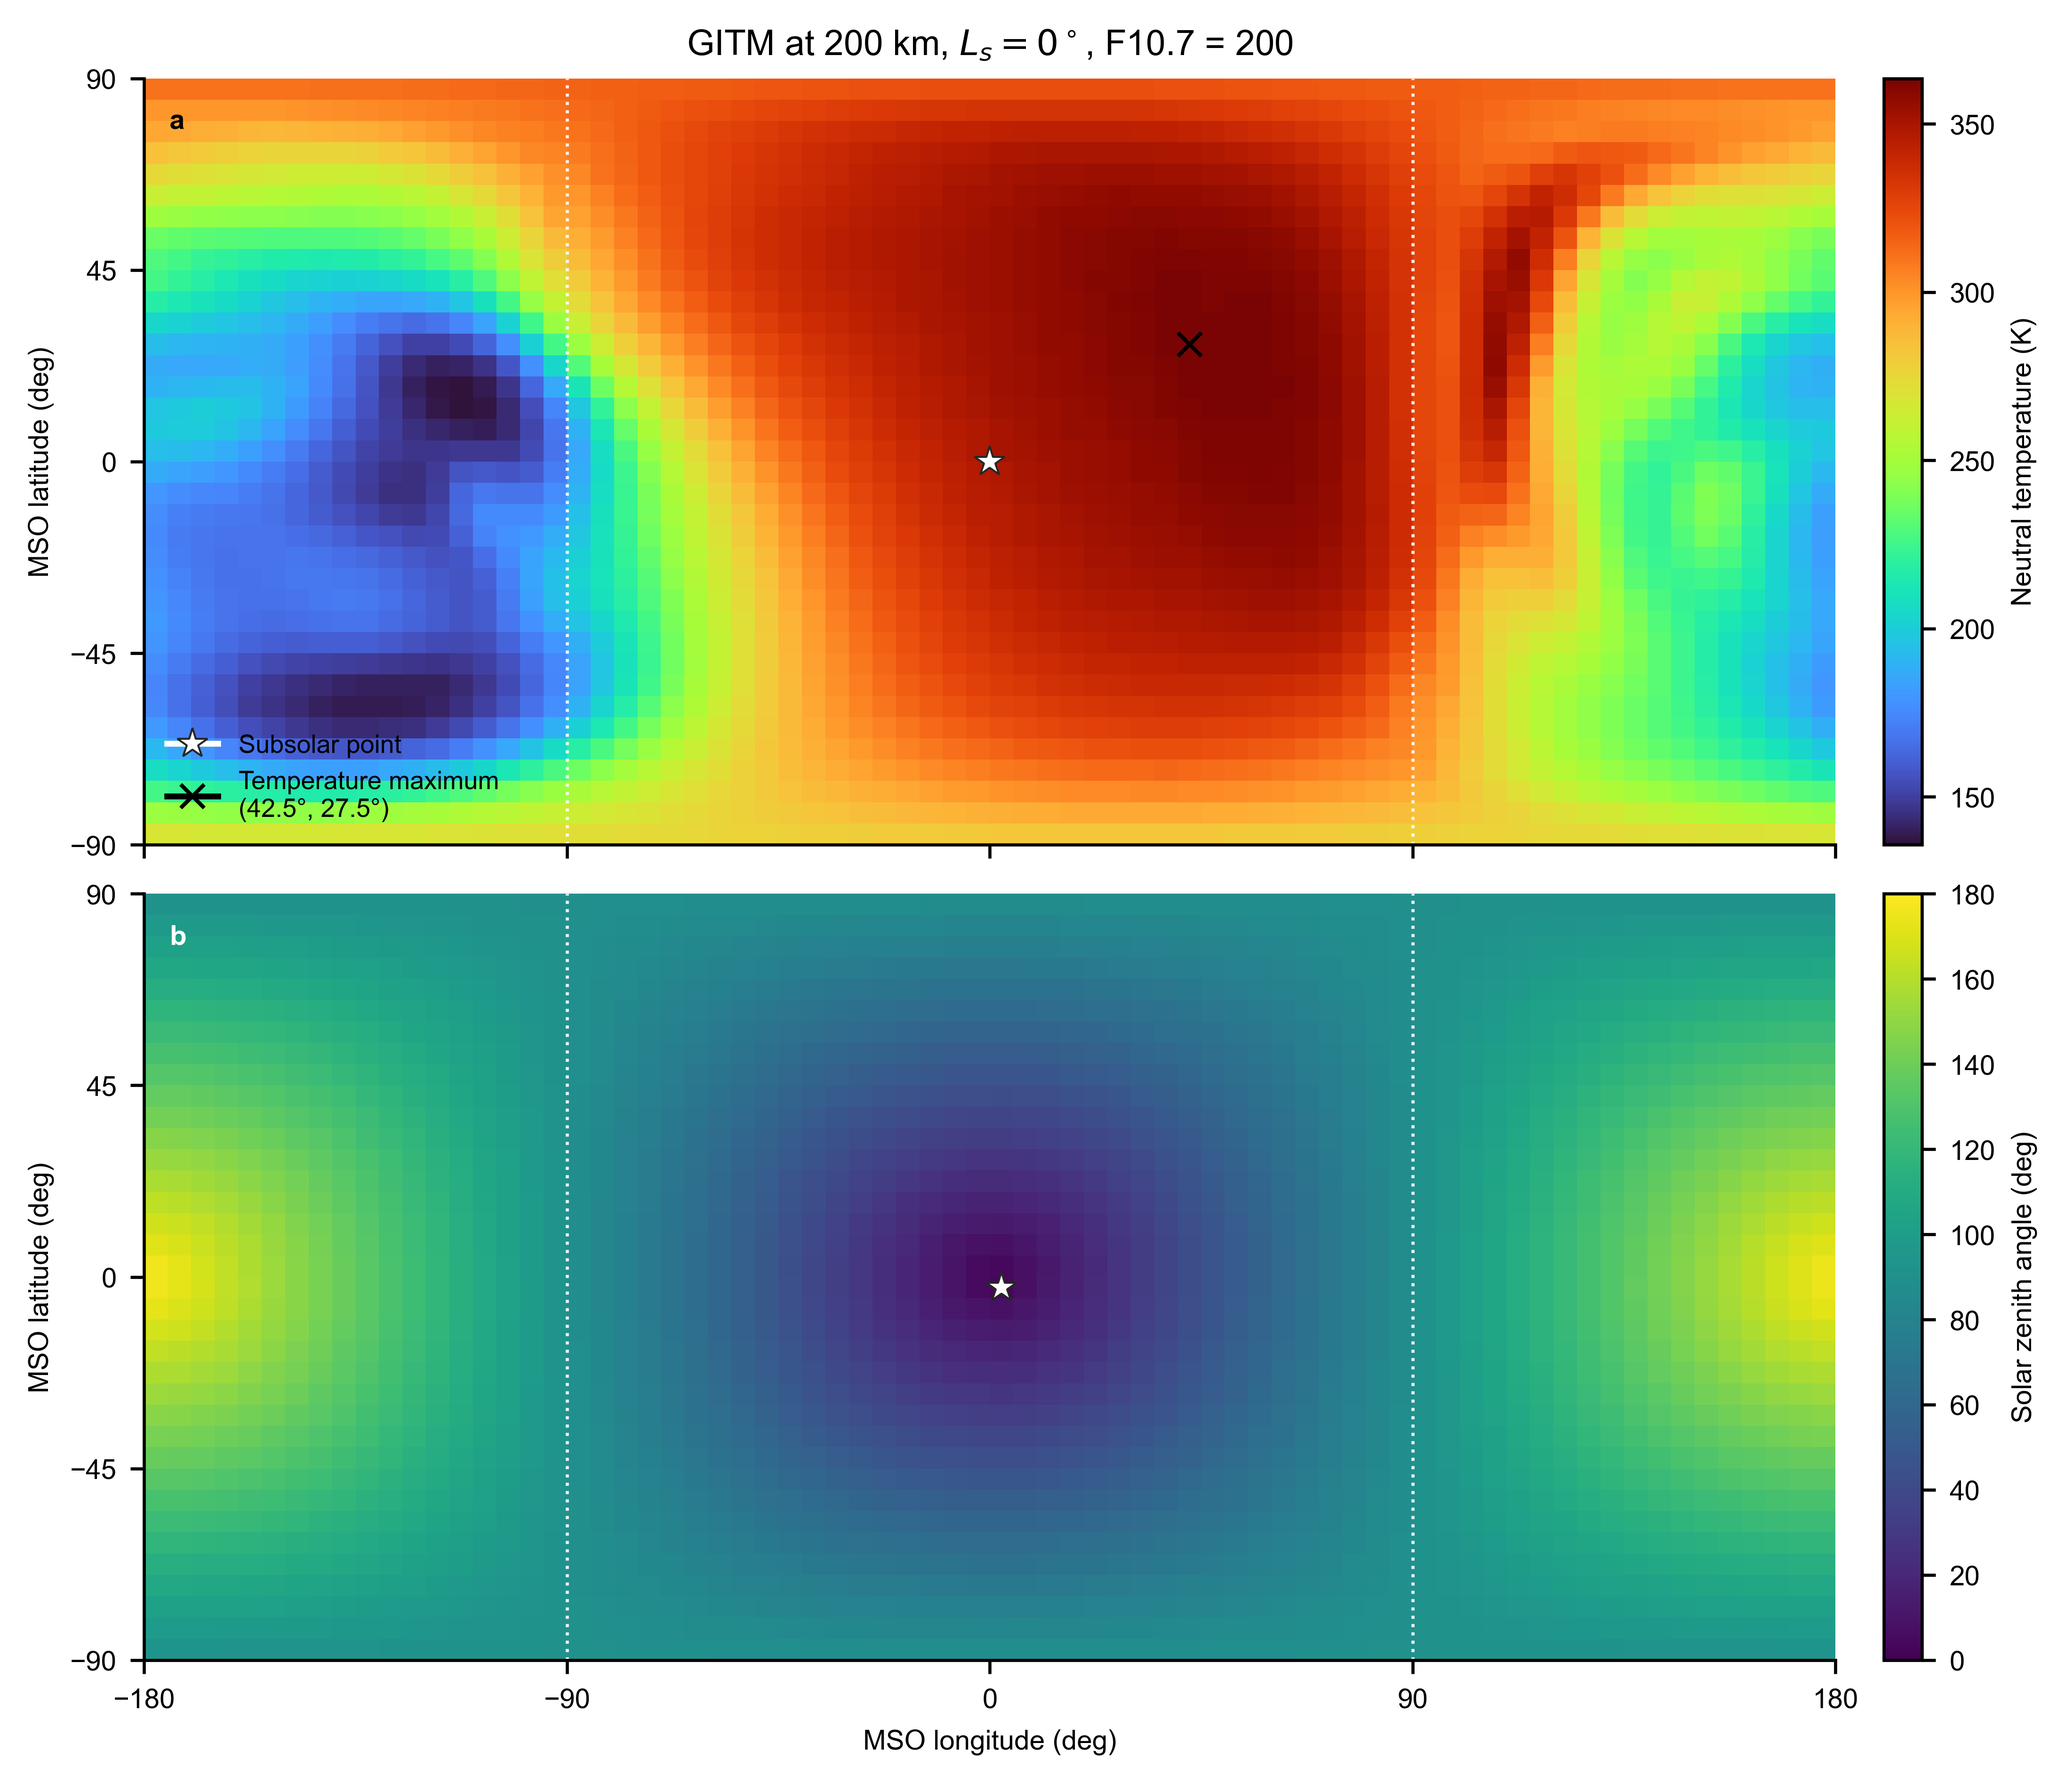
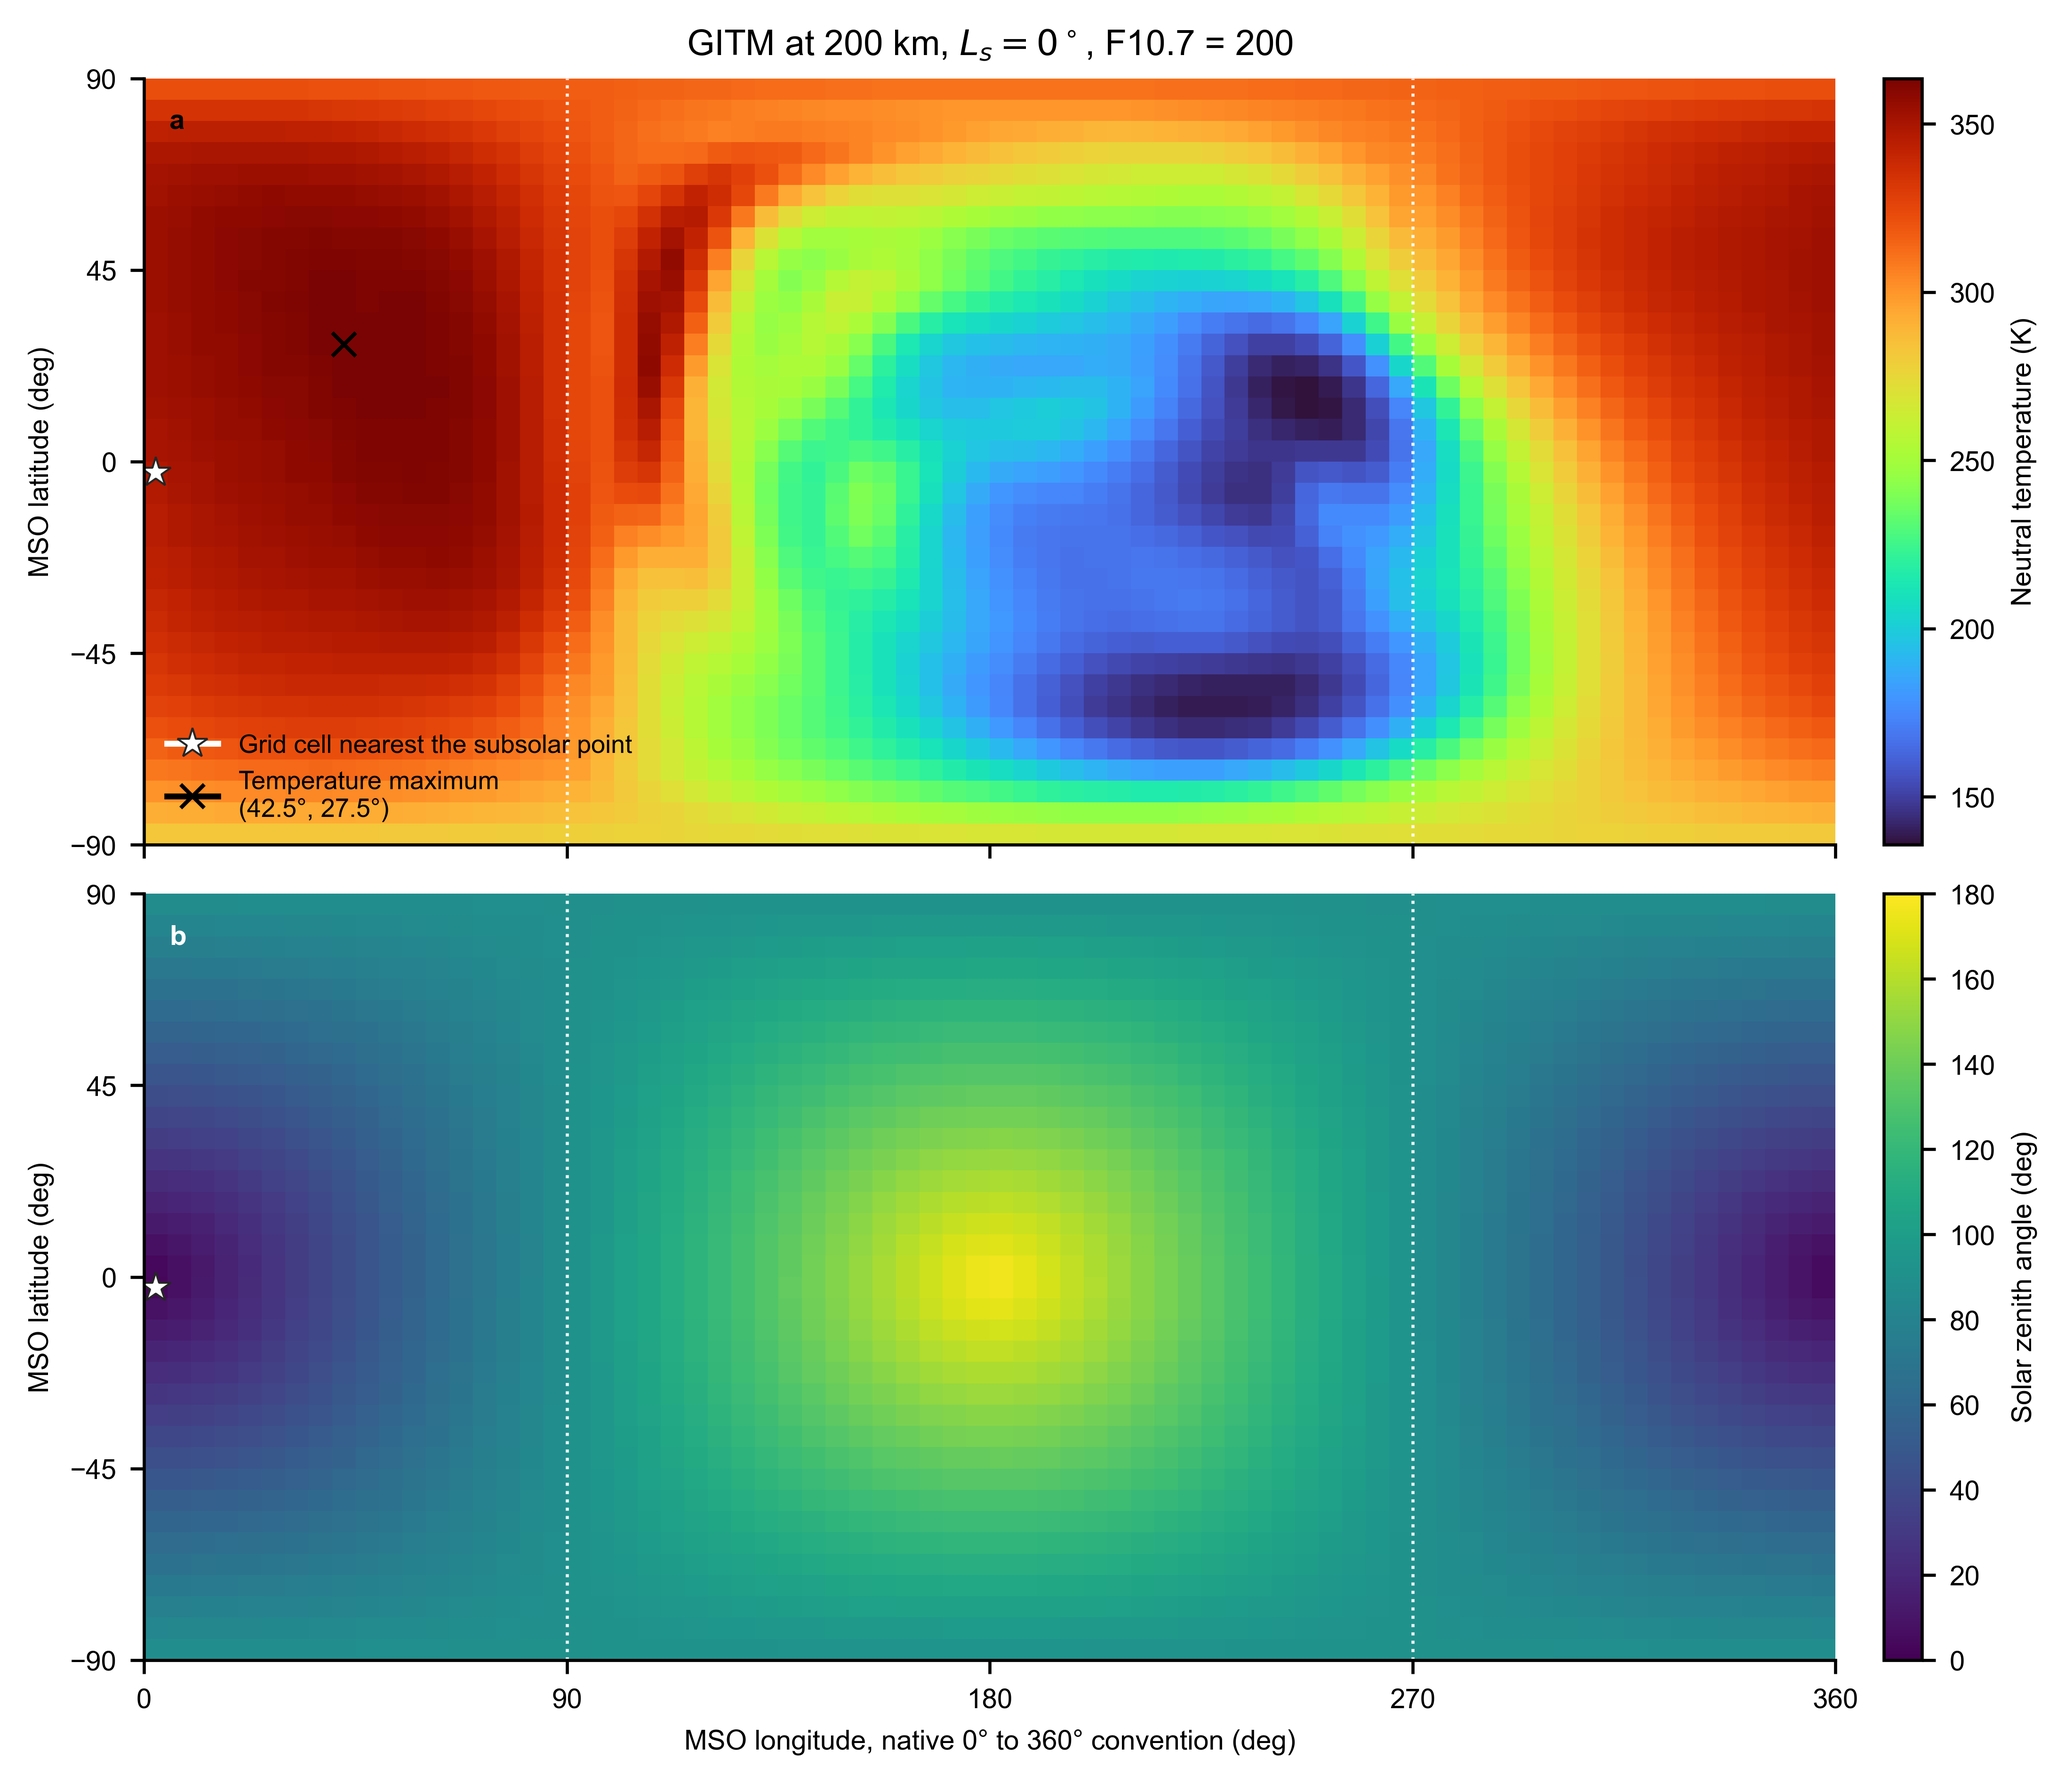
Plot GITM temperature and SZA in native longitude

diff --git a/examples/plot_gitm_temperature_200km.py b/examples/plot_gitm_temperature_200km.py
@@ -79,14 +79,13 @@ def main() -> None:
         gitm["alt_km"], gitm["SZA_deg"], ALTITUDE_KM
     )
 
-    # Source positions are already in MSO. Center longitude on the subsolar
-    # meridian for the conventional -180 to 180 degree display.
-    shift = -(temperature_lon_lat.shape[0] // 2)
-    temperature_lat_lon = np.roll(temperature_lon_lat.T, shift, axis=1)
-    sza_lat_lon = np.roll(sza_lon_lat.T, shift, axis=1)
-    longitude_edges = np.linspace(-180.0, 180.0, 73)
+    # Preserve the source longitude convention. GITM cell centers run from
+    # 2.5 to 357.5 degrees after the duplicate 362.5-degree column is removed.
+    temperature_lat_lon = temperature_lon_lat.T
+    sza_lat_lon = sza_lon_lat.T
+    longitude_edges = np.linspace(0.0, 360.0, 73)
     latitude_edges = coordinate_edges(gitm["lat_deg"])
-    longitude_centers = np.linspace(-177.5, 177.5, 72)
+    longitude_centers = np.asarray(gitm["lon_deg"], dtype=float)
     latitude_centers = np.asarray(gitm["lat_deg"], dtype=float)
 
     maximum_index = np.unravel_index(
@@ -116,18 +115,18 @@ def main() -> None:
 
     for axis in axes:
         axis.set(
-            xlim=(-180, 180), ylim=(-90, 90),
-            xticks=(-180, -90, 0, 90, 180),
+            xlim=(0, 360), ylim=(-90, 90),
+            xticks=(0, 90, 180, 270, 360),
             yticks=(-90, -45, 0, 45, 90),
             ylabel="MSO latitude (deg)",
         )
-        axis.axvline(-90, color="white", lw=0.8, ls=":", alpha=0.9)
         axis.axvline(90, color="white", lw=0.8, ls=":", alpha=0.9)
+        axis.axvline(270, color="white", lw=0.8, ls=":", alpha=0.9)
 
     axes[0].set_title(
         r"GITM at 200 km, $L_s=0^\circ$, F10.7 = 200", fontsize=9,
     )
-    axes[1].set_xlabel("MSO longitude (deg)")
+    axes[1].set_xlabel("MSO longitude, native 0° to 360° convention (deg)")
     axes[0].text(
         0.015, 0.96, "a", transform=axes[0].transAxes,
         va="top", fontweight="bold",
@@ -137,9 +136,9 @@ def main() -> None:
         va="top", color="white", fontweight="bold",
     )
     axes[0].plot(
-        0.0, 0.0, marker="*", ms=8, color="white",
+        2.5, -2.5, marker="*", ms=8, color="white",
         markeredgecolor="0.15", markeredgewidth=0.5,
-        label="Subsolar point",
+        label="Grid cell nearest the subsolar point",
     )
     axes[0].plot(
         maximum_longitude, maximum_latitude,
